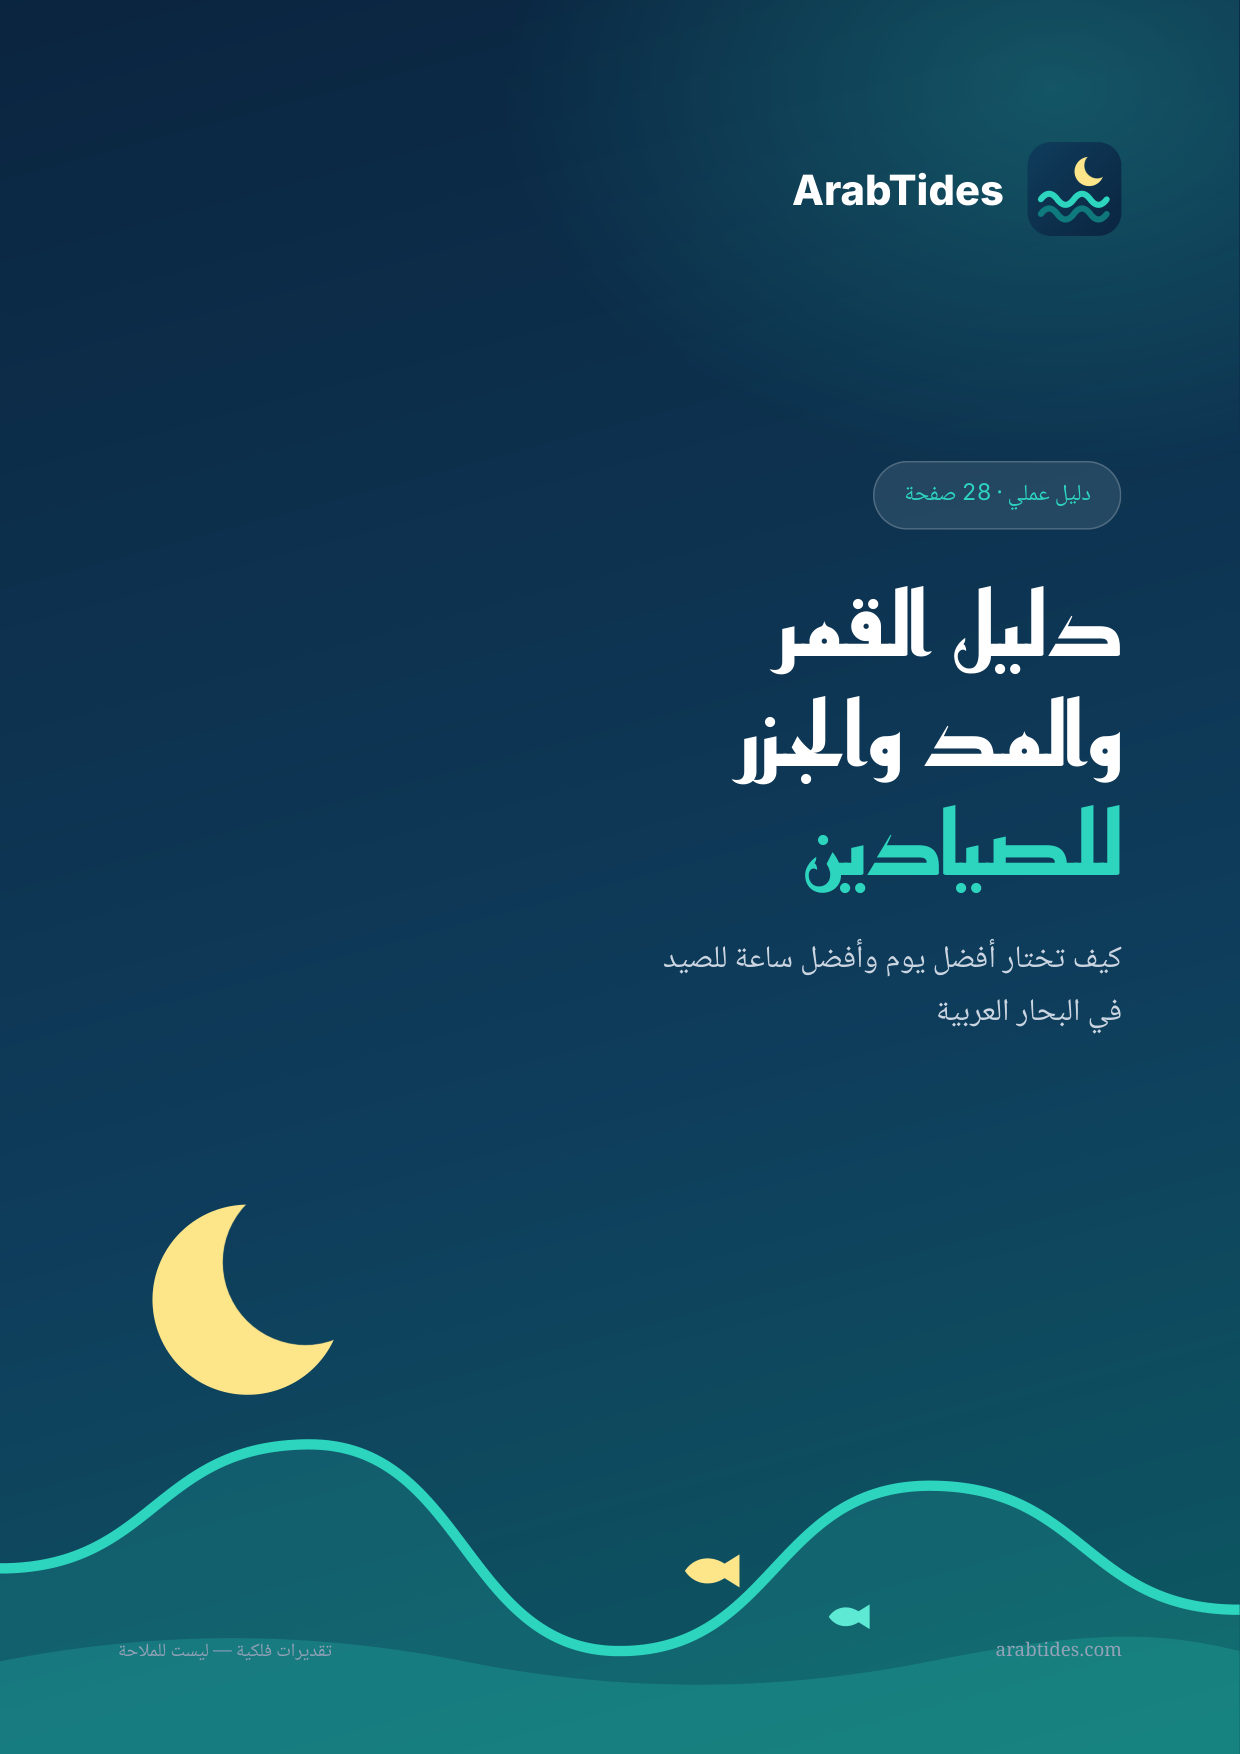
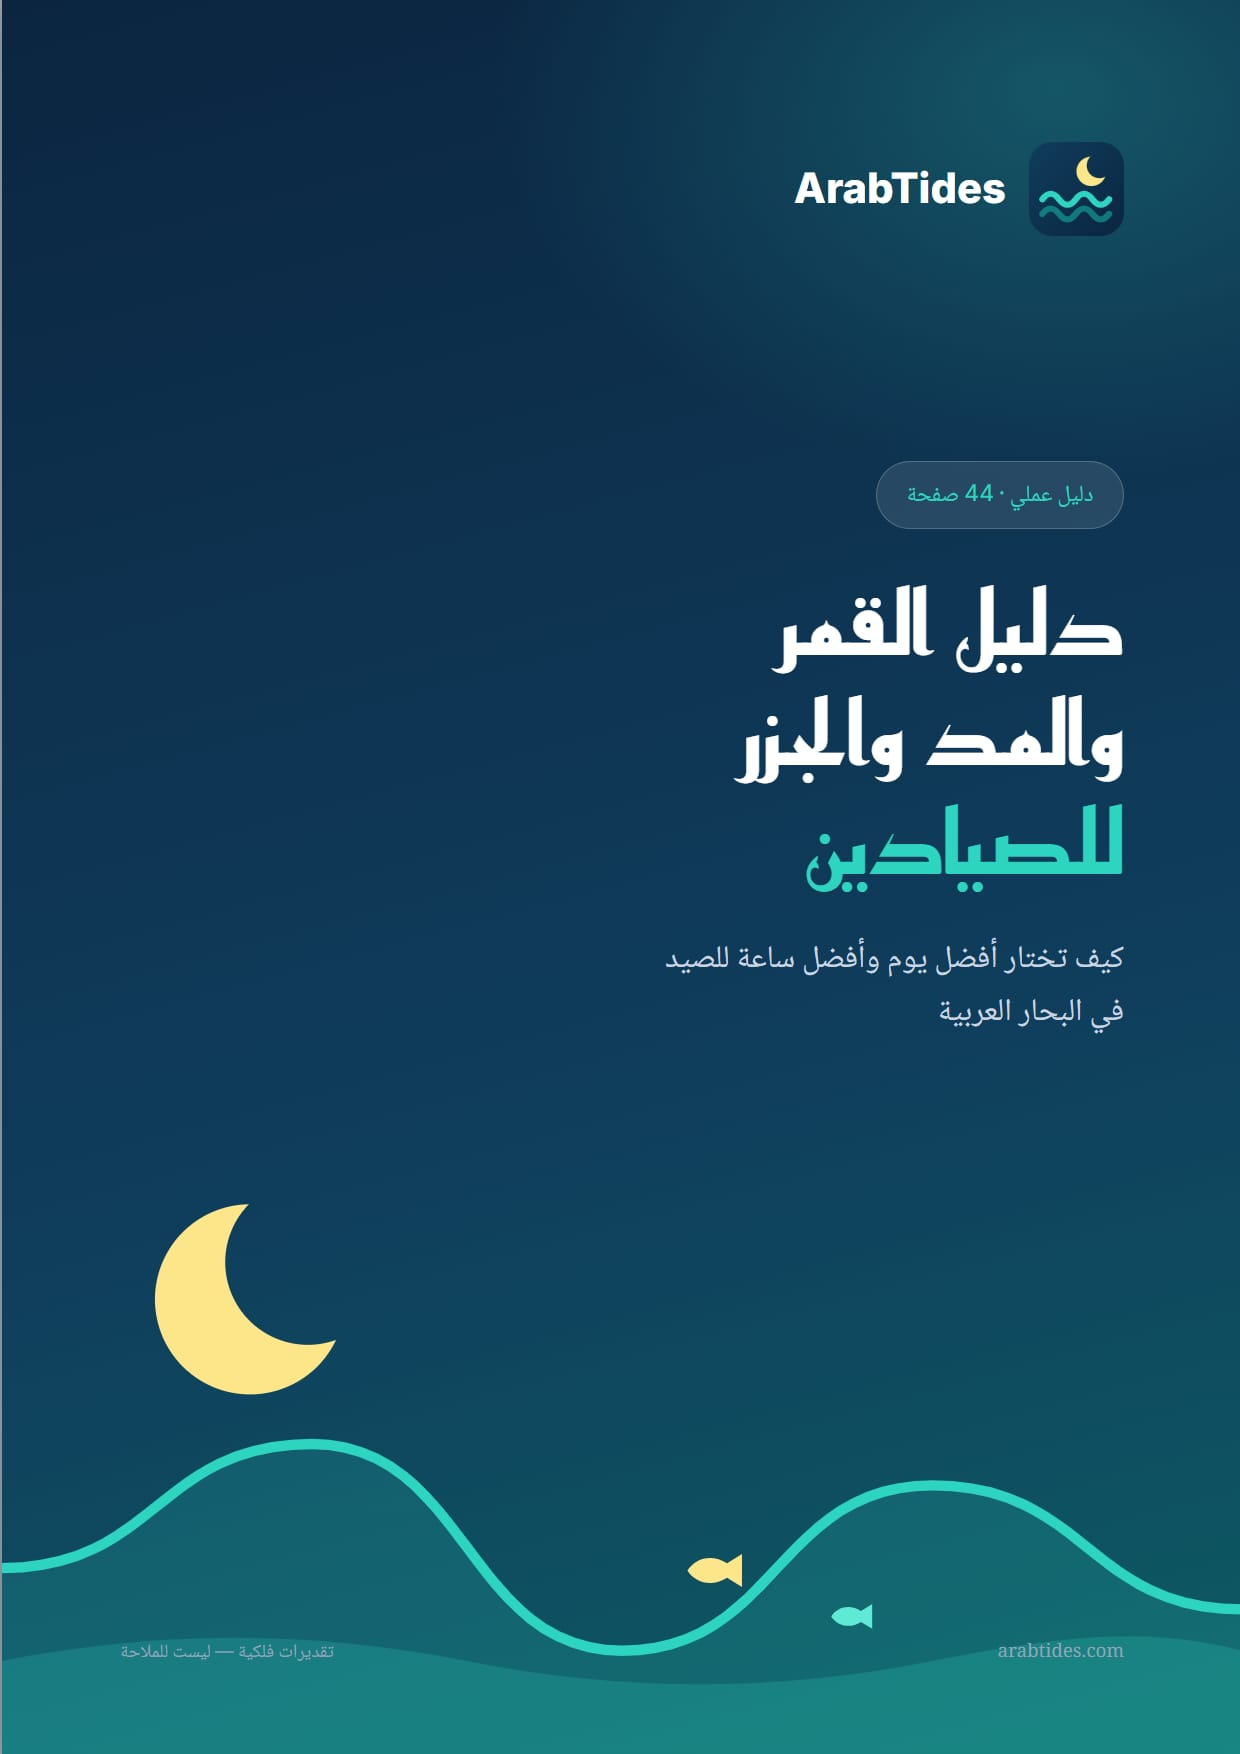
#060: Guide grows to 44 pages: when each of 52 fish bites, and a 12-month fishing calendar with bans and seasons
Claude-Session: https://claude.ai/code/session_01ESe62dXEXnE7XMXBQrqcAM

diff --git a/src/lib/shop.ts b/src/lib/shop.ts
@@ -34,7 +34,7 @@ export const GUIDE = {
   price: 2.99,
   currency: 'USD',
   priceLabel: '2.99$',
-  pages: 28,
+  pages: 44,
   chapters: [
     { icon: '🌙', title: 'لماذا يهتم الصياد بالقمر؟', text: 'من الجاذبية إلى التيار إلى الطعام — وما يقوله العلم بصراحة.' },
     { icon: '🌗', title: 'أطوار القمر وما تعنيه للصيد', text: 'الأطوار الثمانية، متى يشرق القمر ويغرب، والصيد في ليالي البدر والمحاق.' },
@@ -43,6 +43,8 @@ export const GUIDE = {
     { icon: '⏱', title: 'فترات السولونار', text: 'الفترات الكبرى والصغرى، ومتى تكون أقوى، وكيف تحسبها بنفسك.' },
     { icon: '🎯', title: 'اجمع كل شيء', text: 'طريقة من أربع خطوات قبل كل رحلة، مع جدول قرار ومثال محلول.' },
     { icon: '🗺', title: 'البحار العربية', text: 'الخليج، الأطلسي، المحيط الهندي، البحر الأحمر والمتوسط — بالأرقام.' },
+    { icon: '🐟', title: 'متى يأكل كل سمك؟', text: '52 نوعاً من الخليج والبحر الأحمر والأطلسي والمتوسط: أفضل مرحلة مد وساعة وطعم لكل نوع.' },
+    { icon: '📅', title: 'تقويم الصيد لـ12 شهراً', text: 'من نوفمبر 2026 إلى أكتوبر 2027: أيام المد القوي والقمر، ومواسم المنع والصيد في الدول العربية.' },
     { icon: '📄', title: 'الورقة المختصرة', text: 'كل الدليل في صفحة واحدة تطبعها أو تحفظها في هاتفك.' },
   ],
 };
